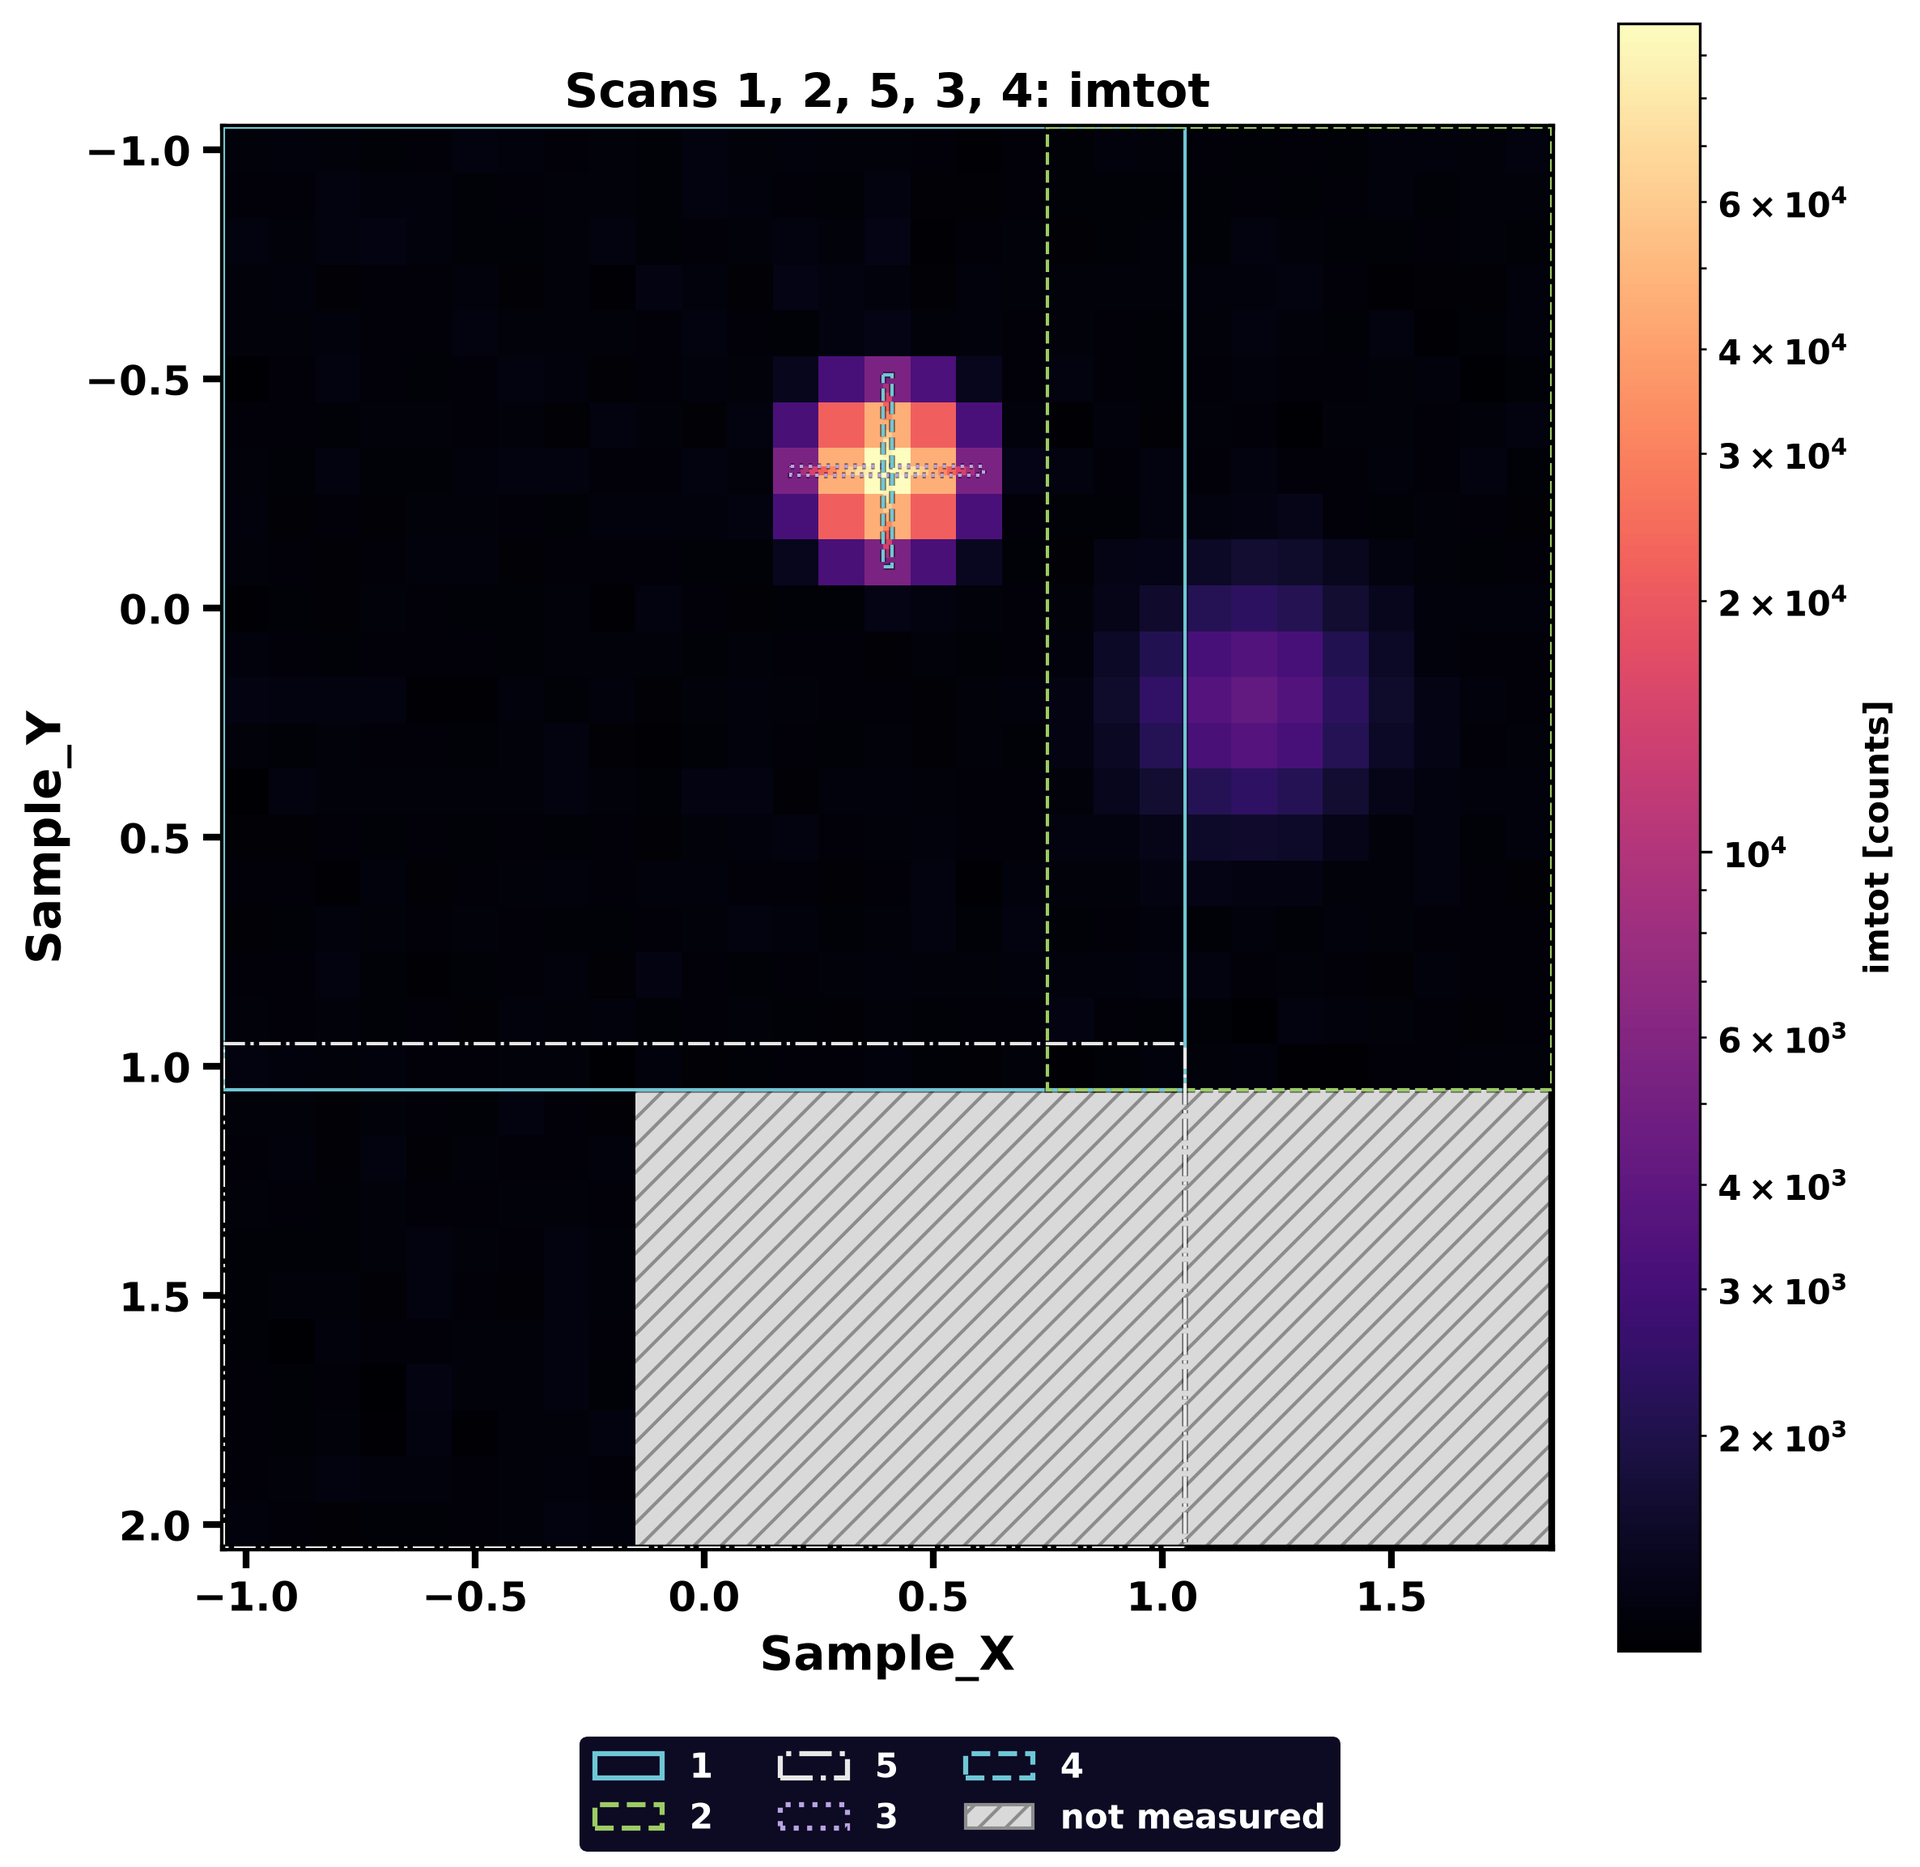
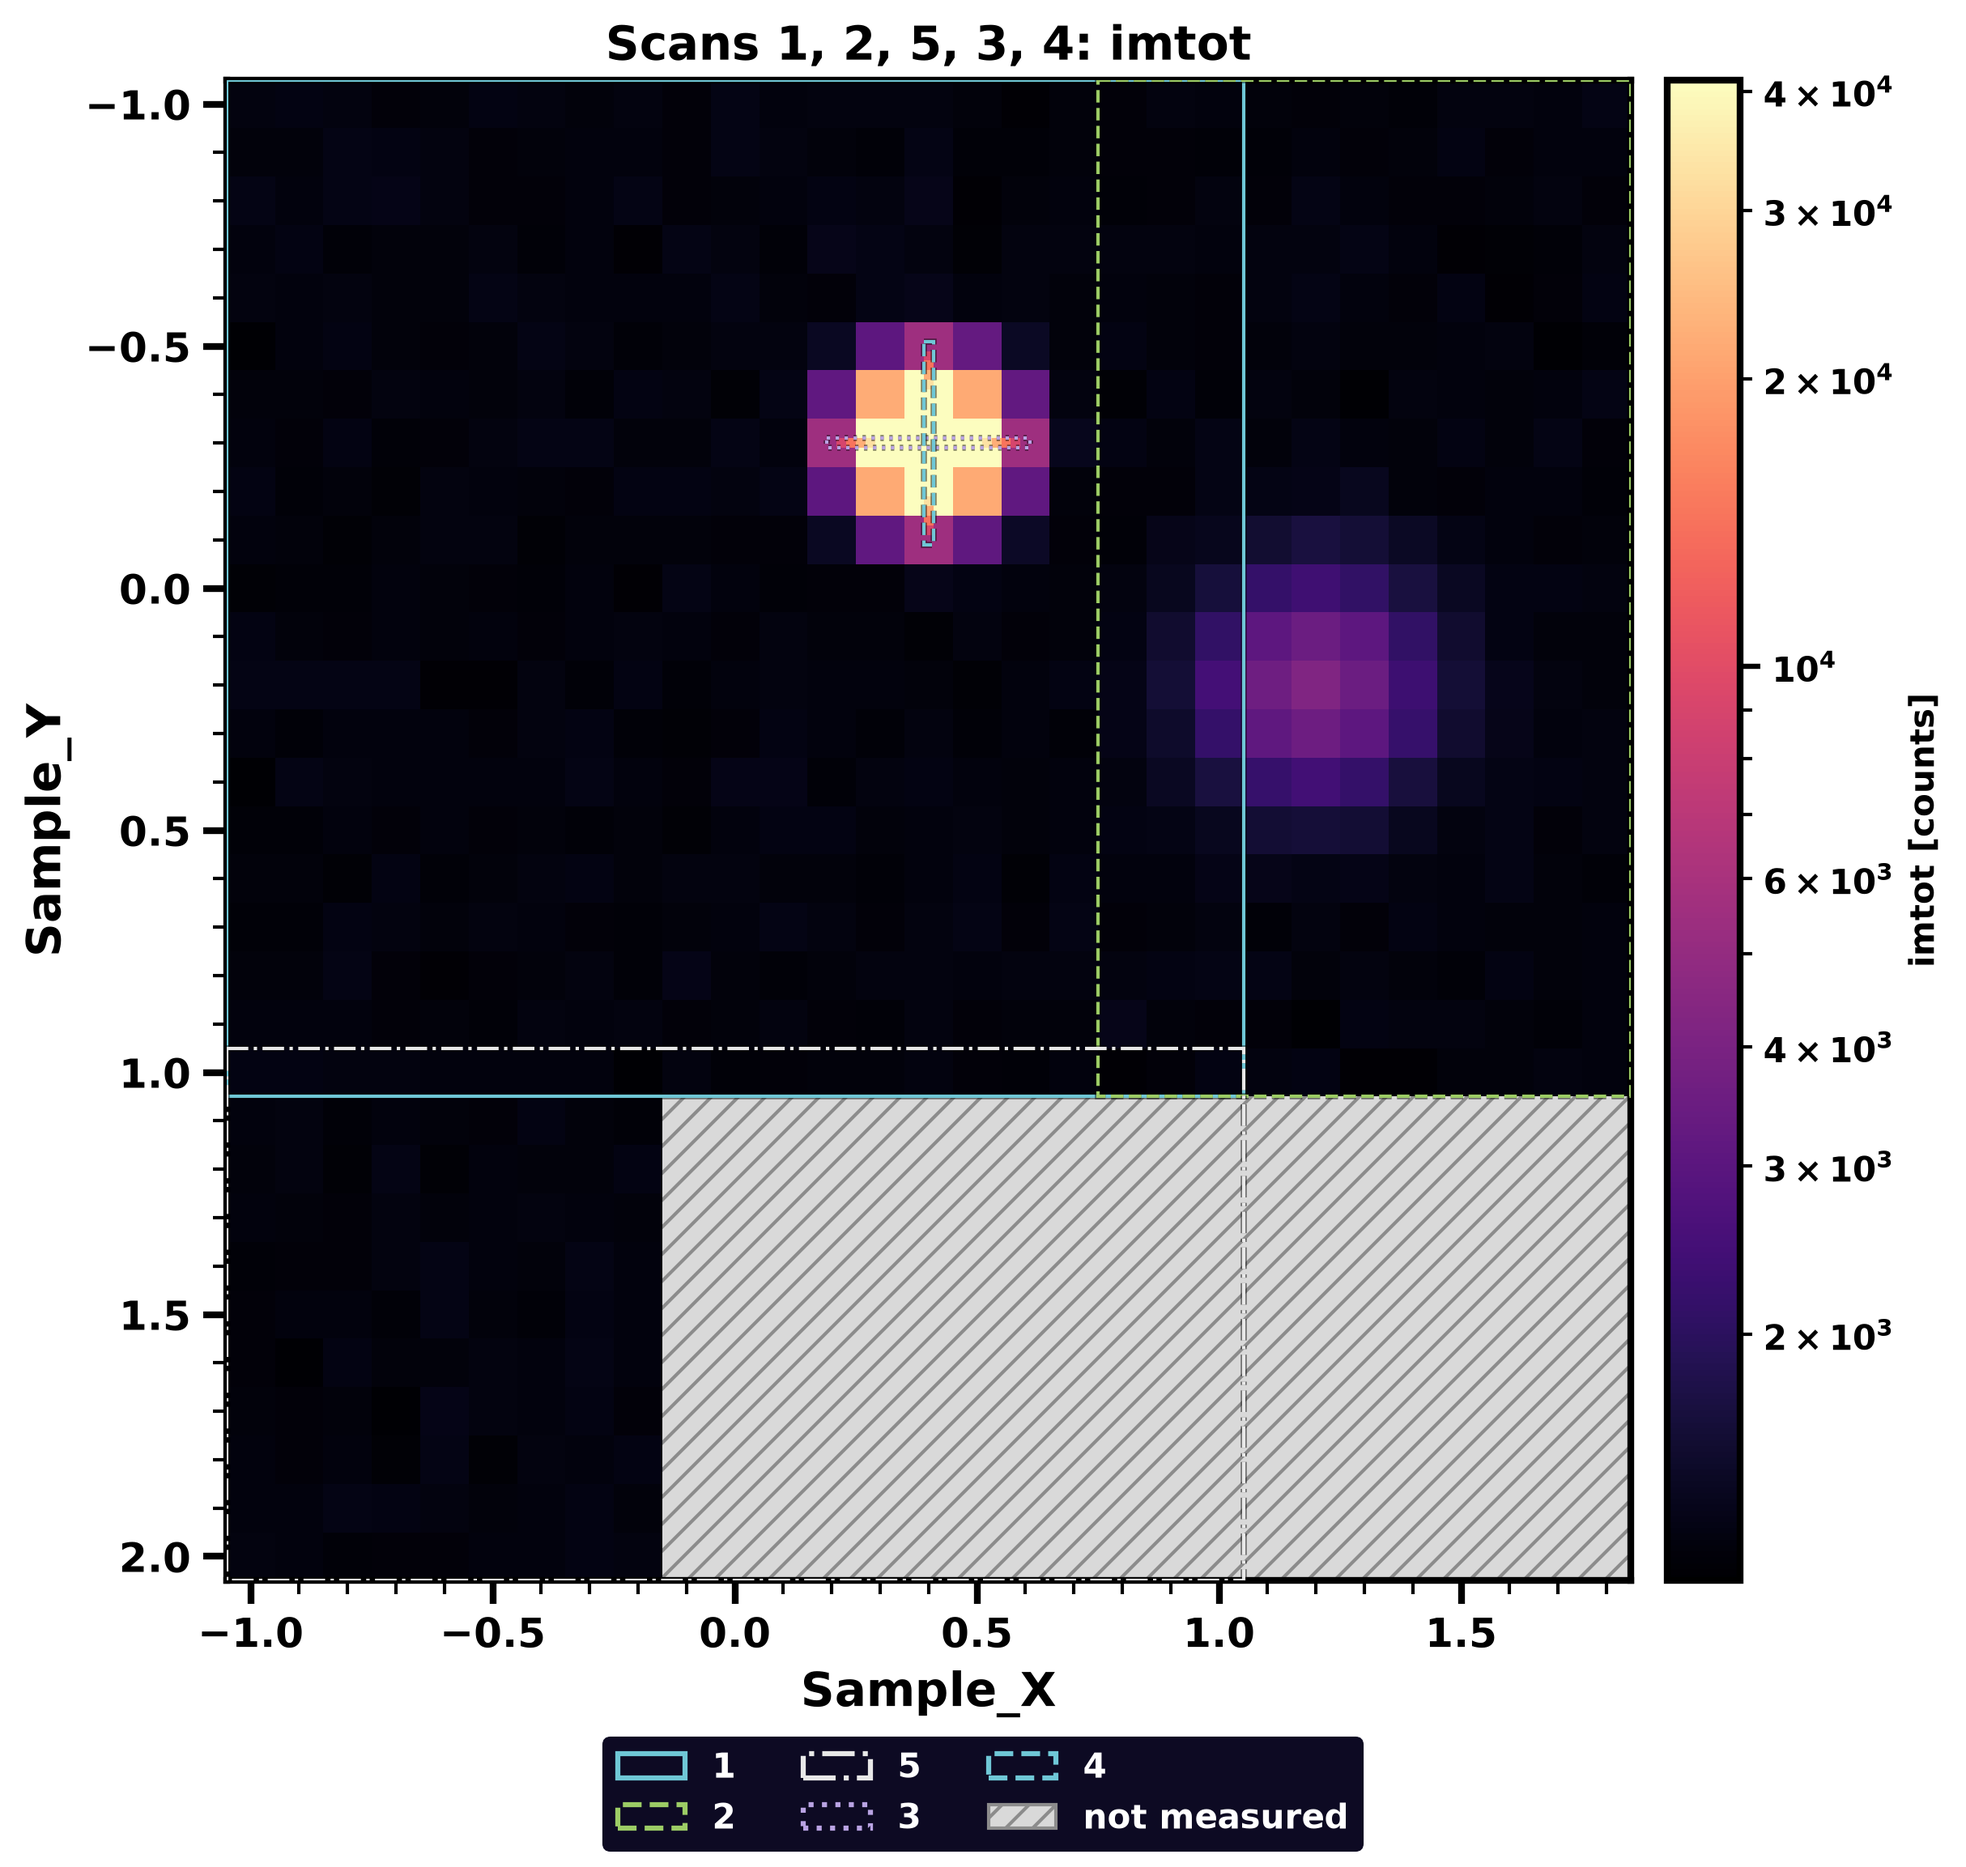
feat: make mesh maps easier to read
A few hot points left the rest of a map in one color.

- End the color scale at 10 times the mean, not at the maximum; --vmax sets it.
- Print the mean of each scan next to its maximum.
- Add minor ticks on the axes and the color bar.
- Keep the color bar at the height of the map.

diff --git a/src/splotter/mesh_map.py b/src/splotter/mesh_map.py
@@ -8,6 +8,8 @@ import numpy as np
 from matplotlib.colors import LogNorm, Normalize
 from matplotlib.patches import Patch, Rectangle
 from matplotlib.patheffects import Normal, Stroke
+from matplotlib.ticker import AutoMinorLocator
+from mpl_toolkits.axes_grid1 import make_axes_locatable
 
 from splotter.spec import Spec, SpecScan, find_name, name_key, run_id, scan_or_exit
 
@@ -23,6 +25,7 @@ OUTLINE_COLORS = ["#6fc7d6", "#9ccc65", "#e8e8e8", "#b9a3e3"]
 OUTLINE_STYLES = ["solid", "dashed", "dashdot", "dotted"]
 # a thin dark edge keeps them on the gray fill
 OUTLINE_HALO = [Stroke(linewidth=1.8, foreground="black", alpha=0.5), Normal()]
+MEAN_FACTOR = 10  # the color scale ends at this many times the mean
 # inches
 MAX_MAP_SIDE, MIN_MAP_SIDE = 6.0, 2.5
 COLORBAR_AND_LABELS, TITLE_AND_LABELS = 2.2, 1.6
@@ -111,15 +114,20 @@ def scan_map(scan: SpecScan, counter: str, x: str, y: str) -> ScanMap:
     return ScanMap(scan.label, across, edges(along, step), values[:, np.newaxis])
 
 
-def color_scale(maps: list[ScanMap], log: bool) -> Normalize:
-    """One scale for all scans, so that colors compare between them."""
+def color_scale(maps: list[ScanMap], log: bool, vmax: float | None = None) -> Normalize:
+    """One scale for all scans, so that colors compare between them.
+
+    It ends at MEAN_FACTOR times the mean, not at the maximum: a few hot points would otherwise leave
+    the rest of the map in one color. Points above it take the brightest color.
+    """
     values = np.concatenate([m.values.ravel() for m in maps])
+    top = vmax if vmax is not None else min(MEAN_FACTOR * np.nanmean(values), np.nanmax(values))
     if not log:
-        return Normalize(vmin=np.nanmin(values), vmax=np.nanmax(values))
+        return Normalize(vmin=np.nanmin(values), vmax=top)
     positive = values[values > 0]
     if positive.size == 0:
         raise SystemExit("--log needs at least one count above zero")
-    return LogNorm(vmin=positive.min(), vmax=positive.max())
+    return LogNorm(vmin=positive.min(), vmax=top if top > positive.min() else positive.max())
 
 
 def shown_values(values: np.ndarray, norm: Normalize) -> np.ndarray:
@@ -154,6 +162,11 @@ def main() -> None:
     parser.add_argument(
         "--log", action="store_true", help="log color scale; zero counts take its lowest color"
     )
+    parser.add_argument(
+        "--vmax",
+        type=float,
+        help=f"top of the color scale (default: {MEAN_FACTOR} times the mean of the scans)",
+    )
     parser.add_argument("--save", type=Path, help="write the figure here instead of showing it")
     args = parser.parse_args()
 
@@ -165,9 +178,13 @@ def main() -> None:
             print(f"Scan {run}: {scan.command}")
             maps.append(scan_map(scan, args.counter, args.x, args.y))
             value, x, y = maps[-1].peak()
-            print(f"  max {args.counter} = {value:g} at {args.x} = {x:g}, {args.y} = {y:g}")
+            mean = np.nanmean(maps[-1].values)
+            print(
+                f"  mean {args.counter} = {mean:.4g}, "
+                f"max {args.counter} = {value:g} at {args.x} = {x:g}, {args.y} = {y:g}"
+            )
 
-    norm = color_scale(maps, args.log)
+    norm = color_scale(maps, args.log, args.vmax)
     x_span = max(m.x_edges.max() for m in maps) - min(m.x_edges.min() for m in maps)
     y_span = max(m.y_edges.max() for m in maps) - min(m.y_edges.min() for m in maps)
     fig, ax = plt.subplots(1, 1, figsize=figure_size(x_span, y_span), layout="constrained")
@@ -214,8 +231,18 @@ def main() -> None:
     ax.set_title(title, fontsize=14, fontweight="bold")
     ax.set_xlabel(args.x, fontsize=14)
     ax.set_ylabel(args.y, fontsize=14)
-    ax.tick_params(direction="out", length=6, width=border_width, labelsize=12)
-    fig.colorbar(mesh, ax=ax, label=f"{args.counter} [counts]")
+    # outward: ticks inside would vanish on the dark cells
+    ax.xaxis.set_minor_locator(AutoMinorLocator())
+    ax.yaxis.set_minor_locator(AutoMinorLocator())
+    ax.tick_params(which="major", direction="out", length=7, width=border_width, labelsize=12)
+    ax.tick_params(which="minor", direction="out", length=4, width=border_width / 2)
+    # beside the axes, so that it keeps their height when equal units shorten them
+    colorbar_axes = make_axes_locatable(ax).append_axes("right", size=0.3, pad=0.15)
+    colorbar = fig.colorbar(mesh, cax=colorbar_axes, label=f"{args.counter} [counts]")
+    colorbar.outline.set_linewidth(border_width)
+    colorbar.ax.minorticks_on()
+    colorbar.ax.tick_params(which="major", direction="out", length=6, width=border_width / 1.3)
+    colorbar.ax.tick_params(which="minor", direction="out", length=3.5, width=border_width / 2)
     if several or any(np.isnan(m.values).any() for m in maps):
         legend_handles.append(
             Patch(

diff --git a/tests/test_spec.py b/tests/test_spec.py
@@ -226,6 +226,18 @@ def test_a_log_scale_shows_zero_counts_but_keeps_unmeasured_points_empty():
         color_scale([ScanMap(1, np.arange(2.0), np.arange(2.0), np.zeros((1, 1)))], log=True)
 
 
+def test_the_color_scale_follows_the_mean_not_a_hot_point():
+    from splotter.mesh_map import ScanMap, color_scale
+
+    values = np.ones((10, 10)) * 100.0
+    values[0, 0] = 1e6
+    m = ScanMap("1", np.arange(11.0), np.arange(11.0), values)
+    mean = values.mean()
+    assert color_scale([m], log=False).vmax == pytest.approx(10 * mean)
+    assert color_scale([m], log=True).vmax == pytest.approx(10 * mean)
+    assert color_scale([m], log=True, vmax=500).vmax == 500
+
+
 def test_the_figure_takes_the_shape_of_the_map():
     from splotter.mesh_map import figure_size
 

diff --git a/docs/guides/mesh-maps.md b/docs/guides/mesh-maps.md
@@ -7,11 +7,11 @@ splotter mesh demo.spec 1 --counter imroi3 --log
 splotter mesh demo.spec 1 2 5 3 4 --log --save map.png
 ```
 
-For each scan it prints the command and where the counter peaks:
+For each scan it prints the command, the mean of the counter and where it peaks:
 
 ```
 Scan 1: mesh sy -1 1 20 sx -1 1 20  0.5
-  max imtot = 97699 at Sample_X = 0.4, Sample_Y = -0.3
+  mean imtot = 2103, max imtot = 97699 at Sample_X = 0.4, Sample_Y = -0.3
 ```
 
 ![Three mesh scans and two line scans on one map](../media/mesh_map.png)
@@ -20,7 +20,9 @@ Scan 1: mesh sy -1 1 20 sx -1 1 20  0.5
 
 - **Scans:** `mesh` scans, and `ascan` or `dscan` line scans of one of the two motors. A line scan
   sits at the position of the other motor, read from the `#P` lines of the scan.
-- **Color:** all scans share one scale, so their colors compare.
+- **Color:** all scans share one scale, so their colors compare. It ends at 10 times the mean of the
+  scans, not at the maximum, so that a few hot points do not leave the rest in one color. Points above
+  it take the brightest color, so the printed maximum or `--vmax` tells how bright they are.
 - **Gray hatching:** nothing was measured there. This includes the missing points of an aborted scan.
 - **Overlaps:** the run given later is drawn on top. Change the order to see the other one.
 - **Outlines:** with several scans, each has its own color and line style, named in the legend.
@@ -33,6 +35,7 @@ Scan 1: mesh sy -1 1 20 sx -1 1 20  0.5
 |---|---|
 | `--counter NAME` | The counter to draw (default `imtot`) |
 | `--log` | Log color scale; zero counts take its lowest color, so they do not look unmeasured |
+| `--vmax VALUE` | Top of the color scale (default: 10 times the mean) |
 | `--x NAME`, `--y NAME` | The motors of the axes (default `Sample_X`, `Sample_Y`) |
 | `--save FILE` | Write the figure to a file instead of opening a window |
 

diff --git a/CHANGELOG.md b/CHANGELOG.md
@@ -9,6 +9,9 @@ and this project adheres to [Semantic Versioning](https://semver.org/).
 ### Changed
 
 - The `splotter mesh` window takes the shape of the map: tall for a tall map, wide for a wide one.
+- The `splotter mesh` color scale ends at 10 times the mean instead of the maximum; `--vmax` sets it.
+  The printed lines also give the mean of each scan.
+- `splotter mesh` has minor ticks on the axes and the color bar, which keeps the height of the map.
 
 ### Added
 
